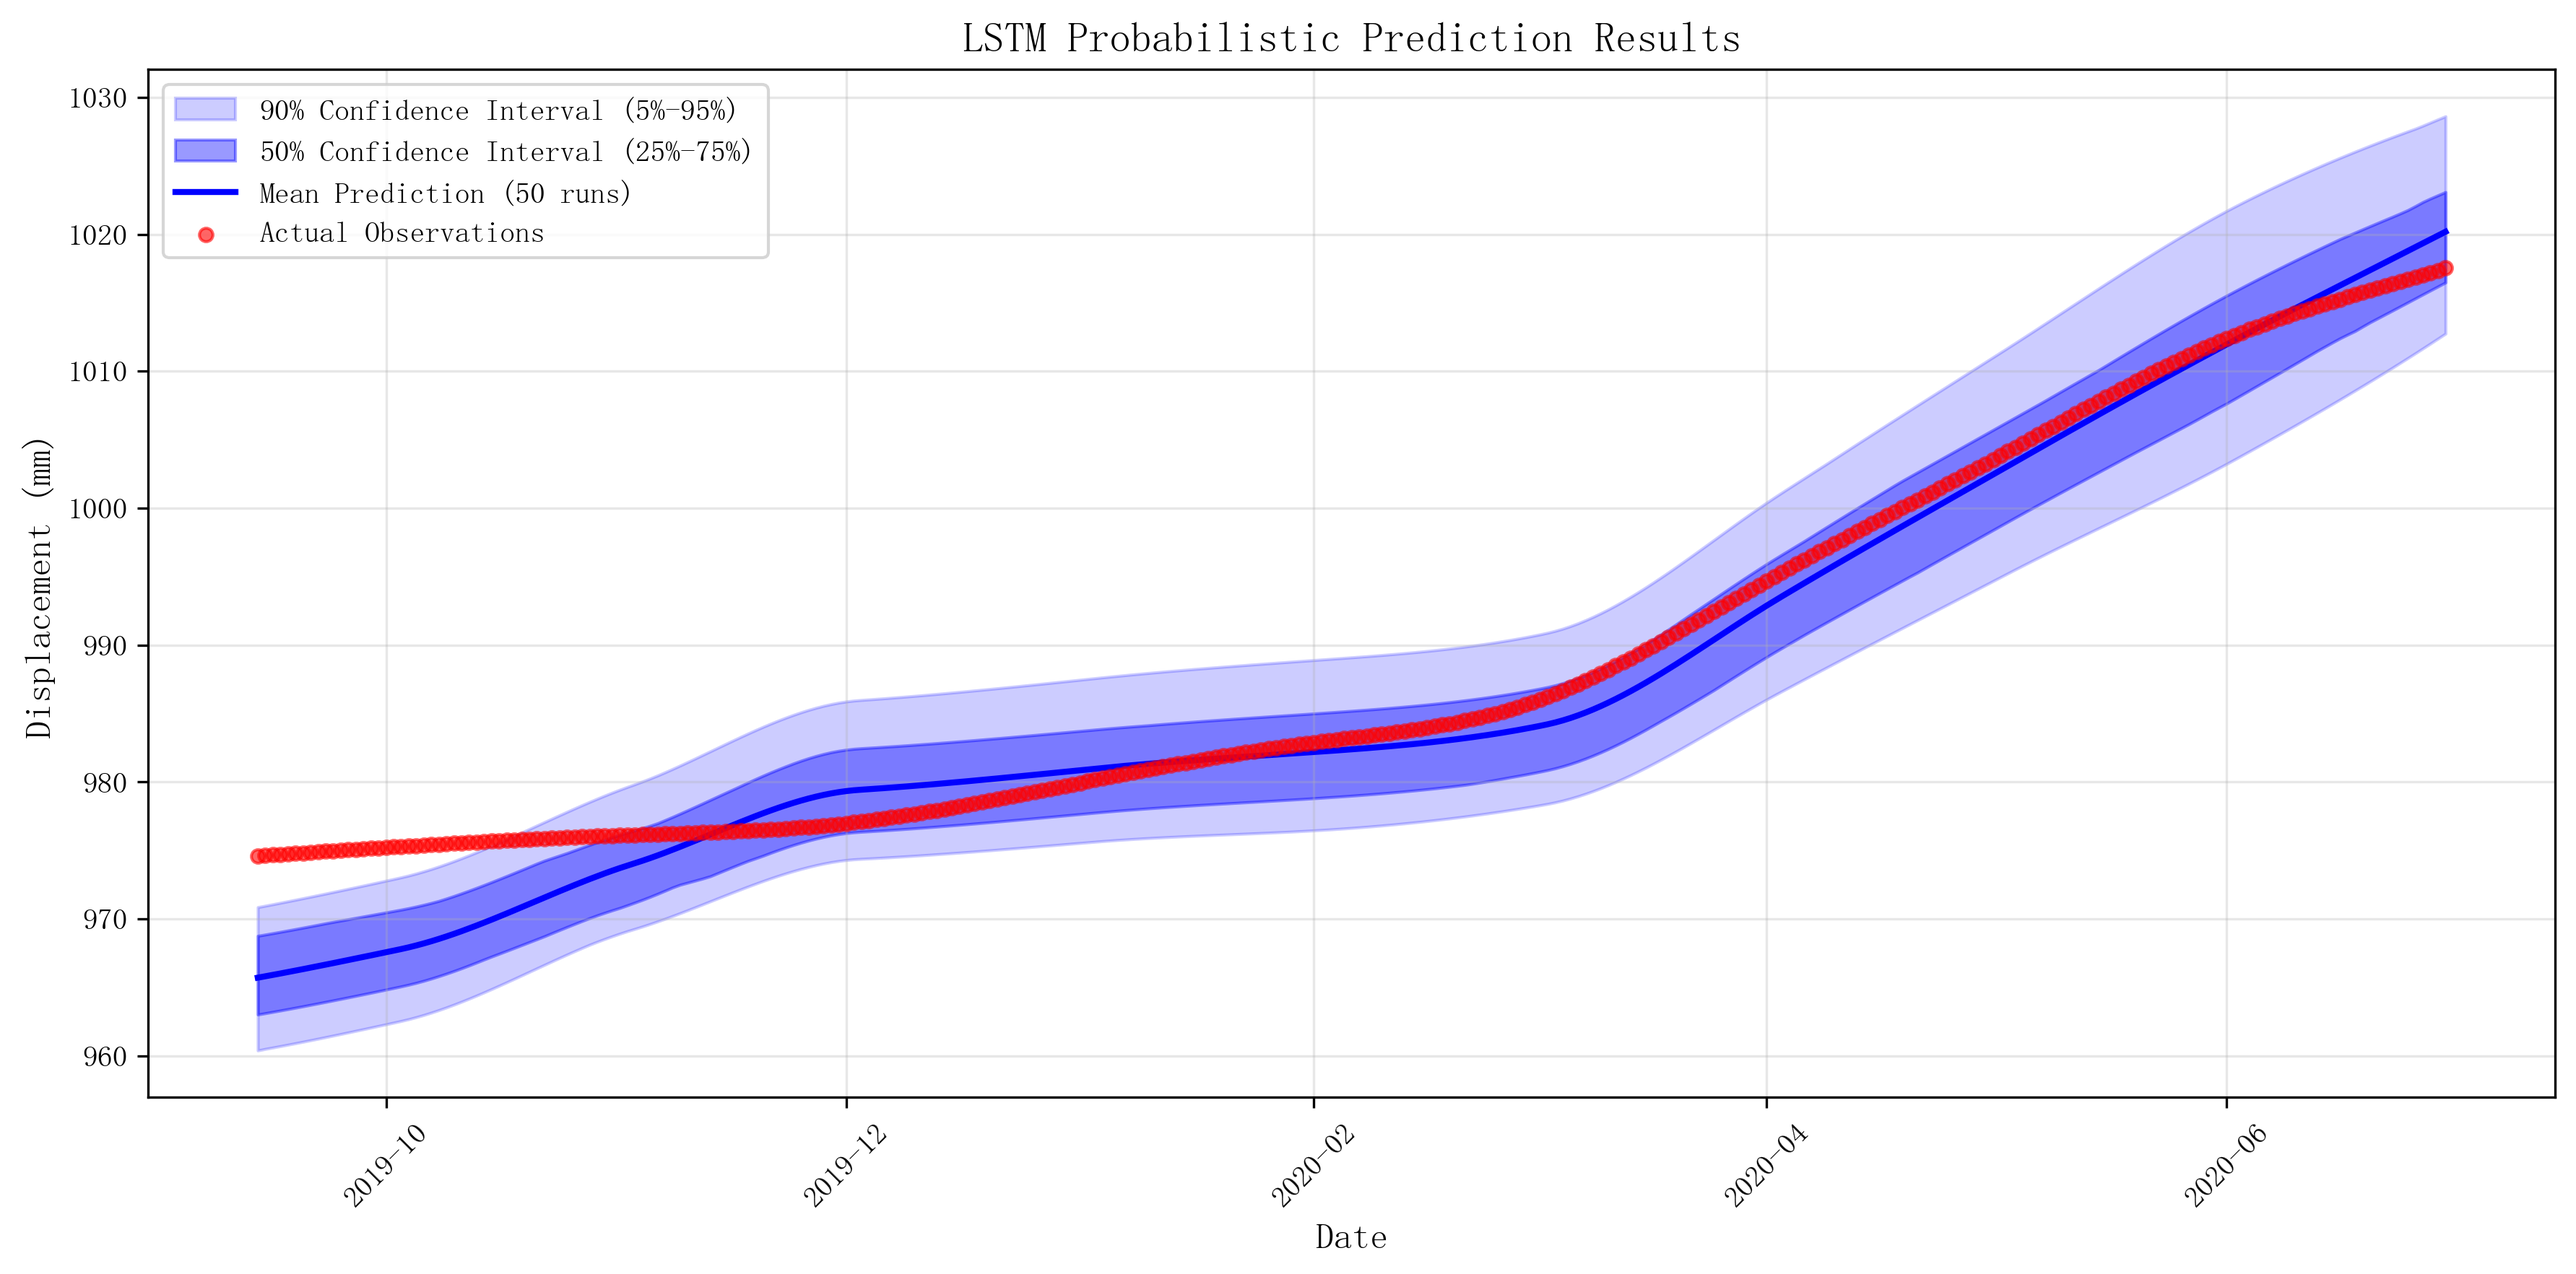
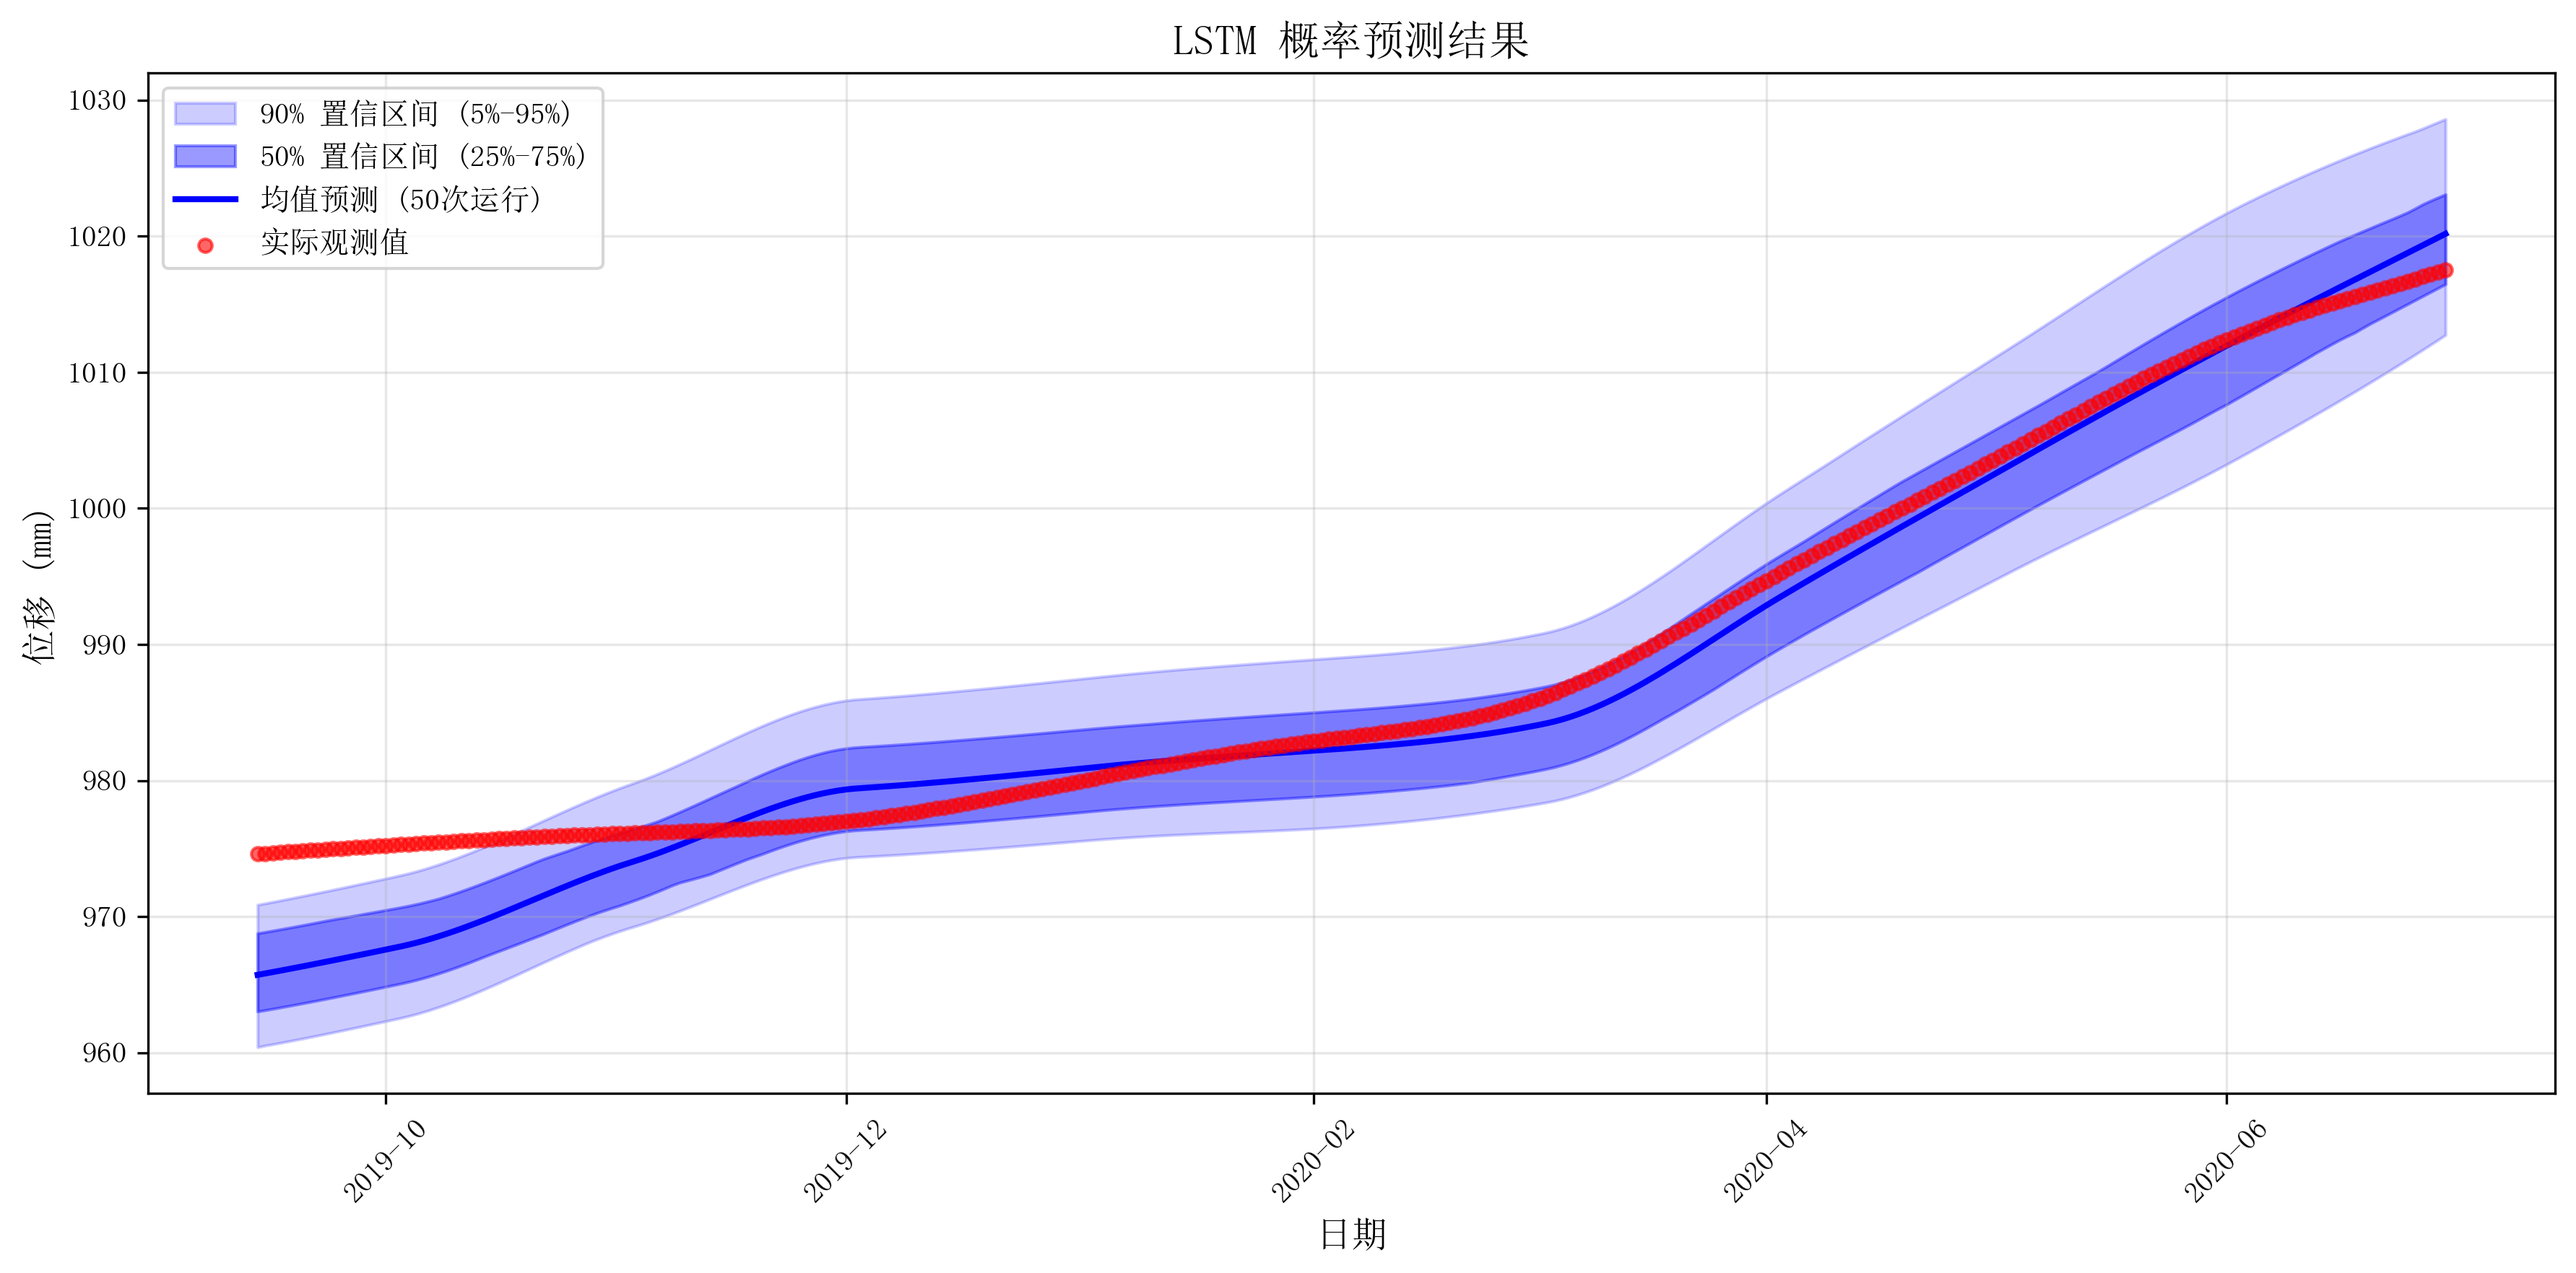
fix: 将 LSTM 预测图的注释从英文翻译为中文（标题、坐标轴、图例）

diff --git a/code/chapter3/scripts/generate_thesis_figures.py b/code/chapter3/scripts/generate_thesis_figures.py
@@ -35,23 +35,23 @@ fig, ax = plt.subplots(figsize=(12, 6))
 
 # 绘制90%置信区间（浅色）
 ax.fill_between(test_dates, stats_df['p05'], stats_df['p95'],
-                alpha=0.2, color='blue', label='90% Confidence Interval (5%-95%)')
+                alpha=0.2, color='blue', label='90% 置信区间 (5%-95%)')
 
 # 绘制50%置信区间（深色）
 ax.fill_between(test_dates, stats_df['p25'], stats_df['p75'],
-                alpha=0.4, color='blue', label='50% Confidence Interval (25%-75%)')
+                alpha=0.4, color='blue', label='50% 置信区间 (25%-75%)')
 
 # 绘制均值预测（蓝色实线）
-ax.plot(test_dates, stats_df['mean'], 'b-', linewidth=2, label='Mean Prediction (50 runs)')
+ax.plot(test_dates, stats_df['mean'], 'b-', linewidth=2, label='均值预测 (50次运行)')
 
 # 绘制真实值（红色散点）
 ax.scatter(test_dates, stats_df['actual'], c='red', s=20, alpha=0.6,
-          label='Actual Observations', zorder=5)
+          label='实际观测值', zorder=5)
 
 # 设置标签和标题
-ax.set_xlabel('Date', fontsize=12)
-ax.set_ylabel('Displacement (mm)', fontsize=12)
-ax.set_title('LSTM Probabilistic Prediction Results', fontsize=14, fontweight='bold')
+ax.set_xlabel('日期', fontsize=12)
+ax.set_ylabel('位移 (mm)', fontsize=12)
+ax.set_title('LSTM 概率预测结果', fontsize=14, fontweight='bold')
 ax.legend(loc='upper left', fontsize=10)
 ax.grid(True, alpha=0.3)
 
